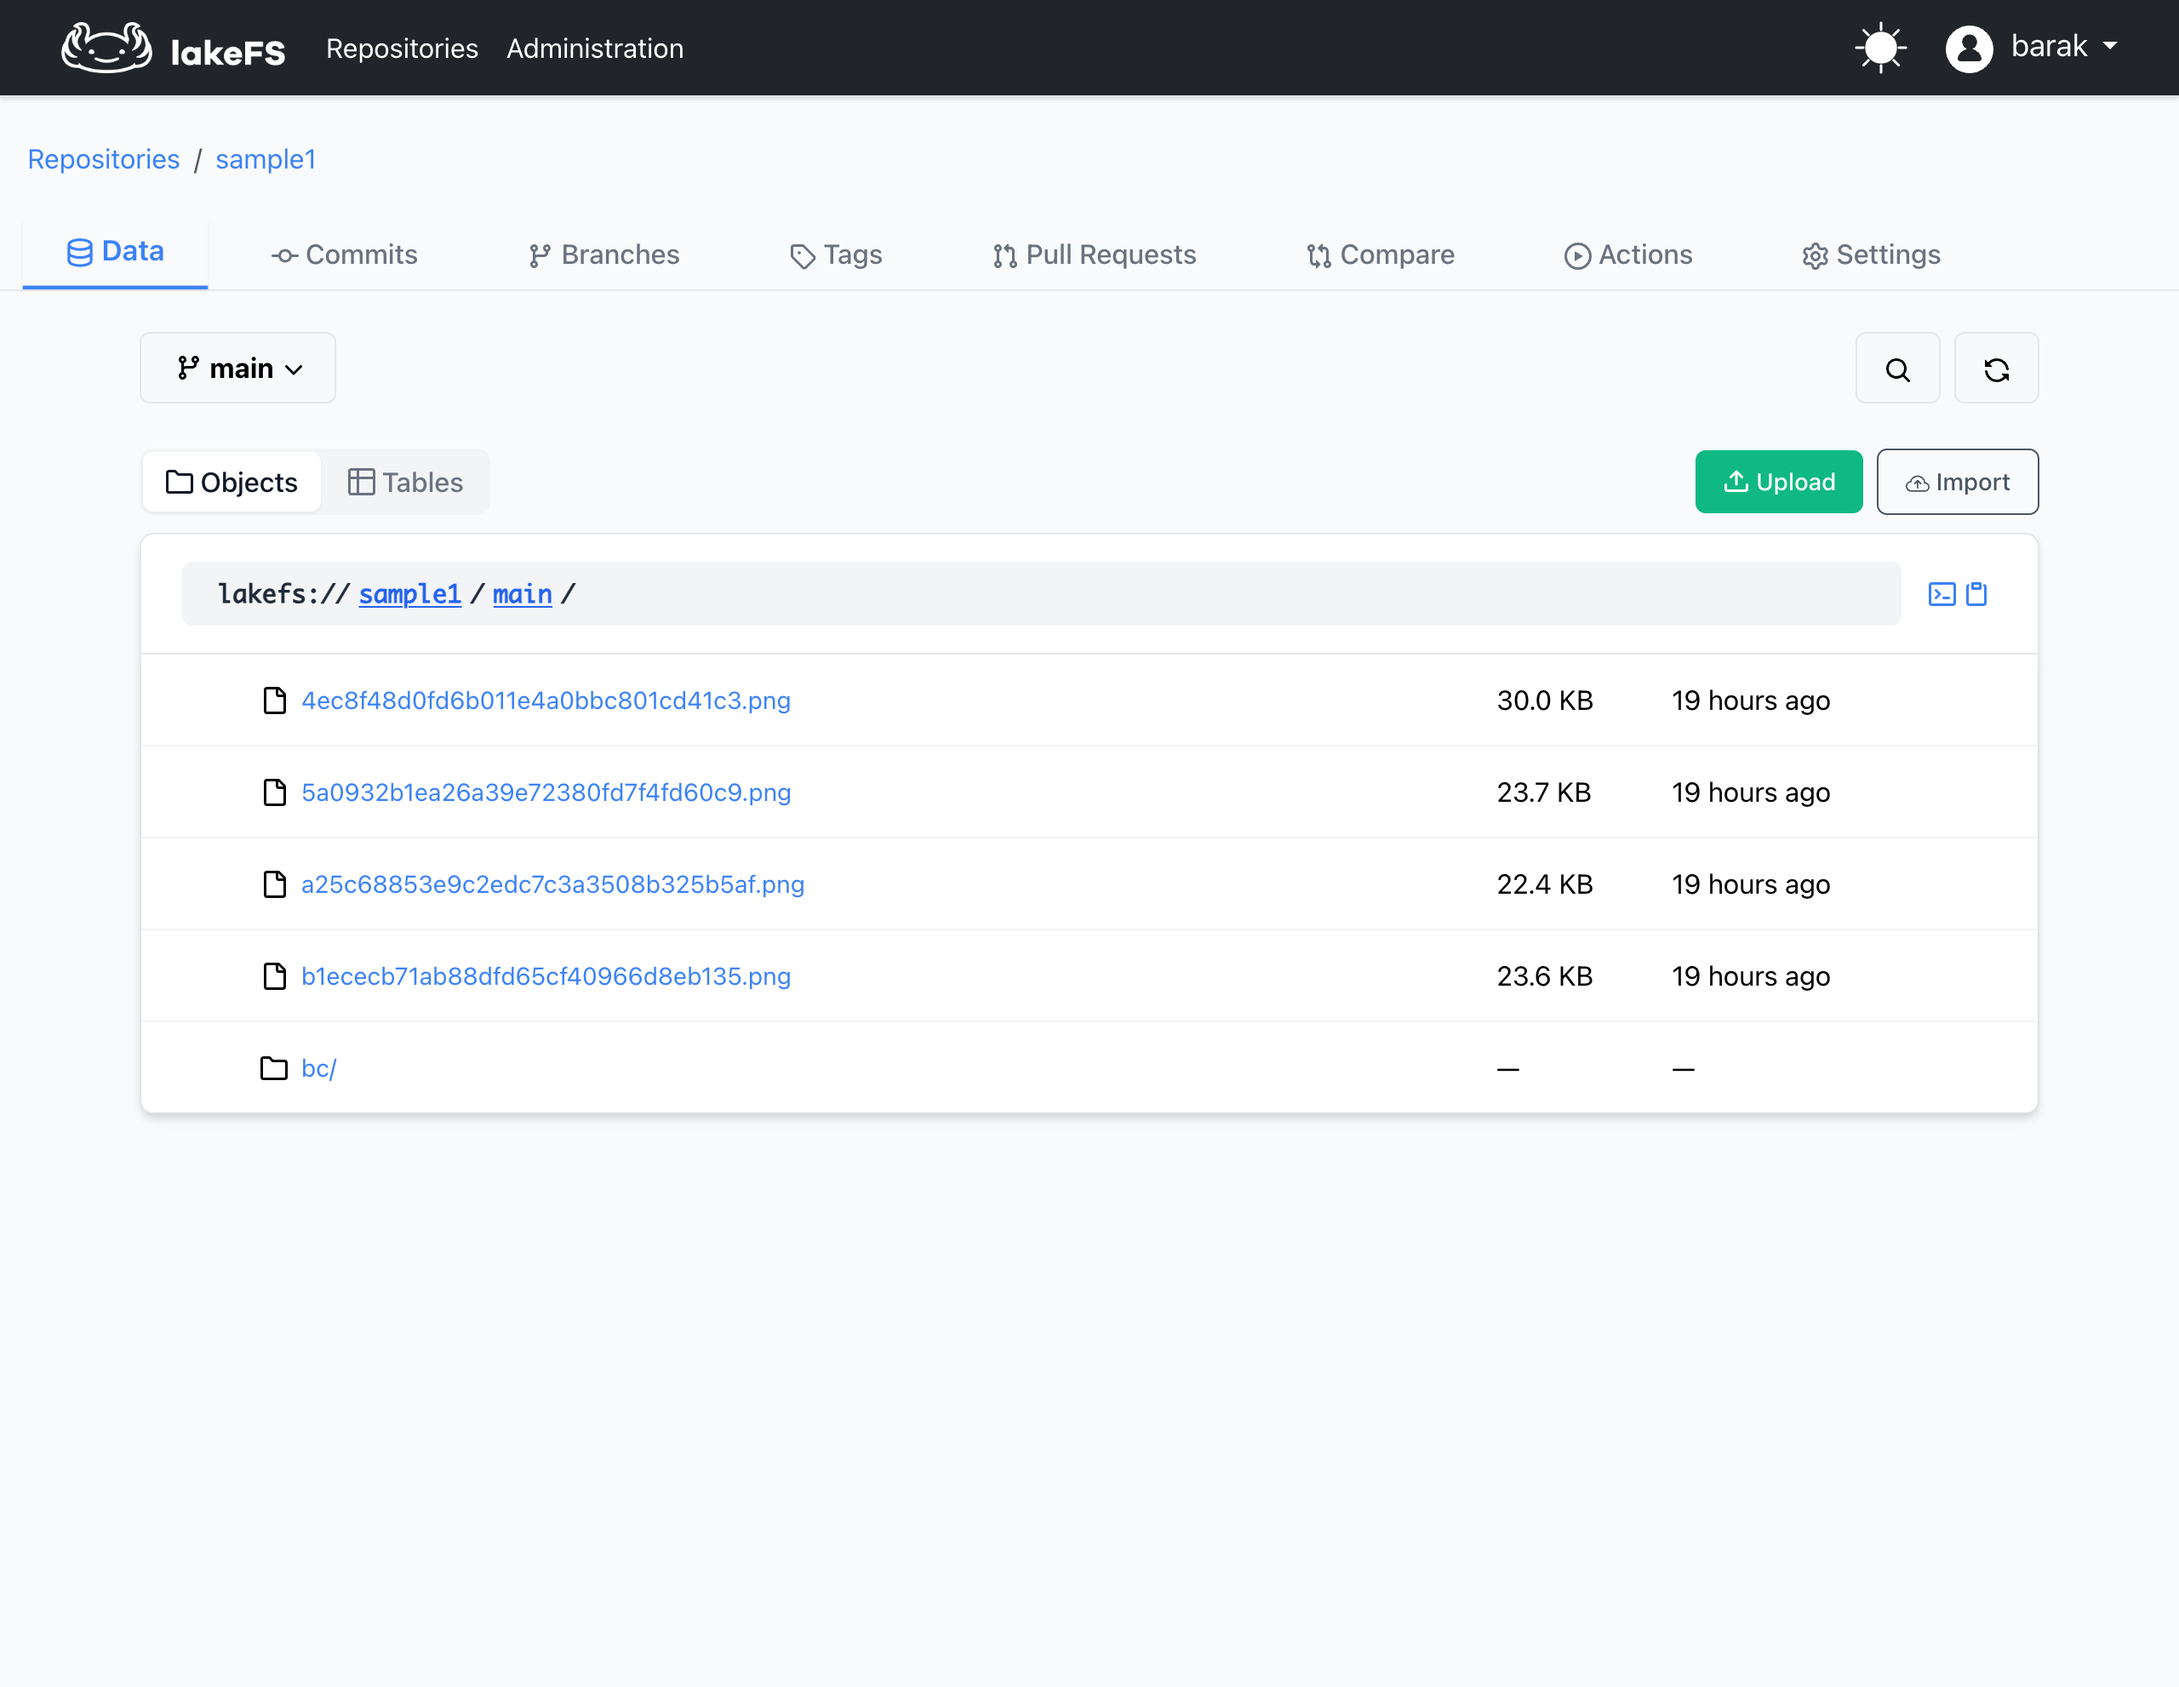
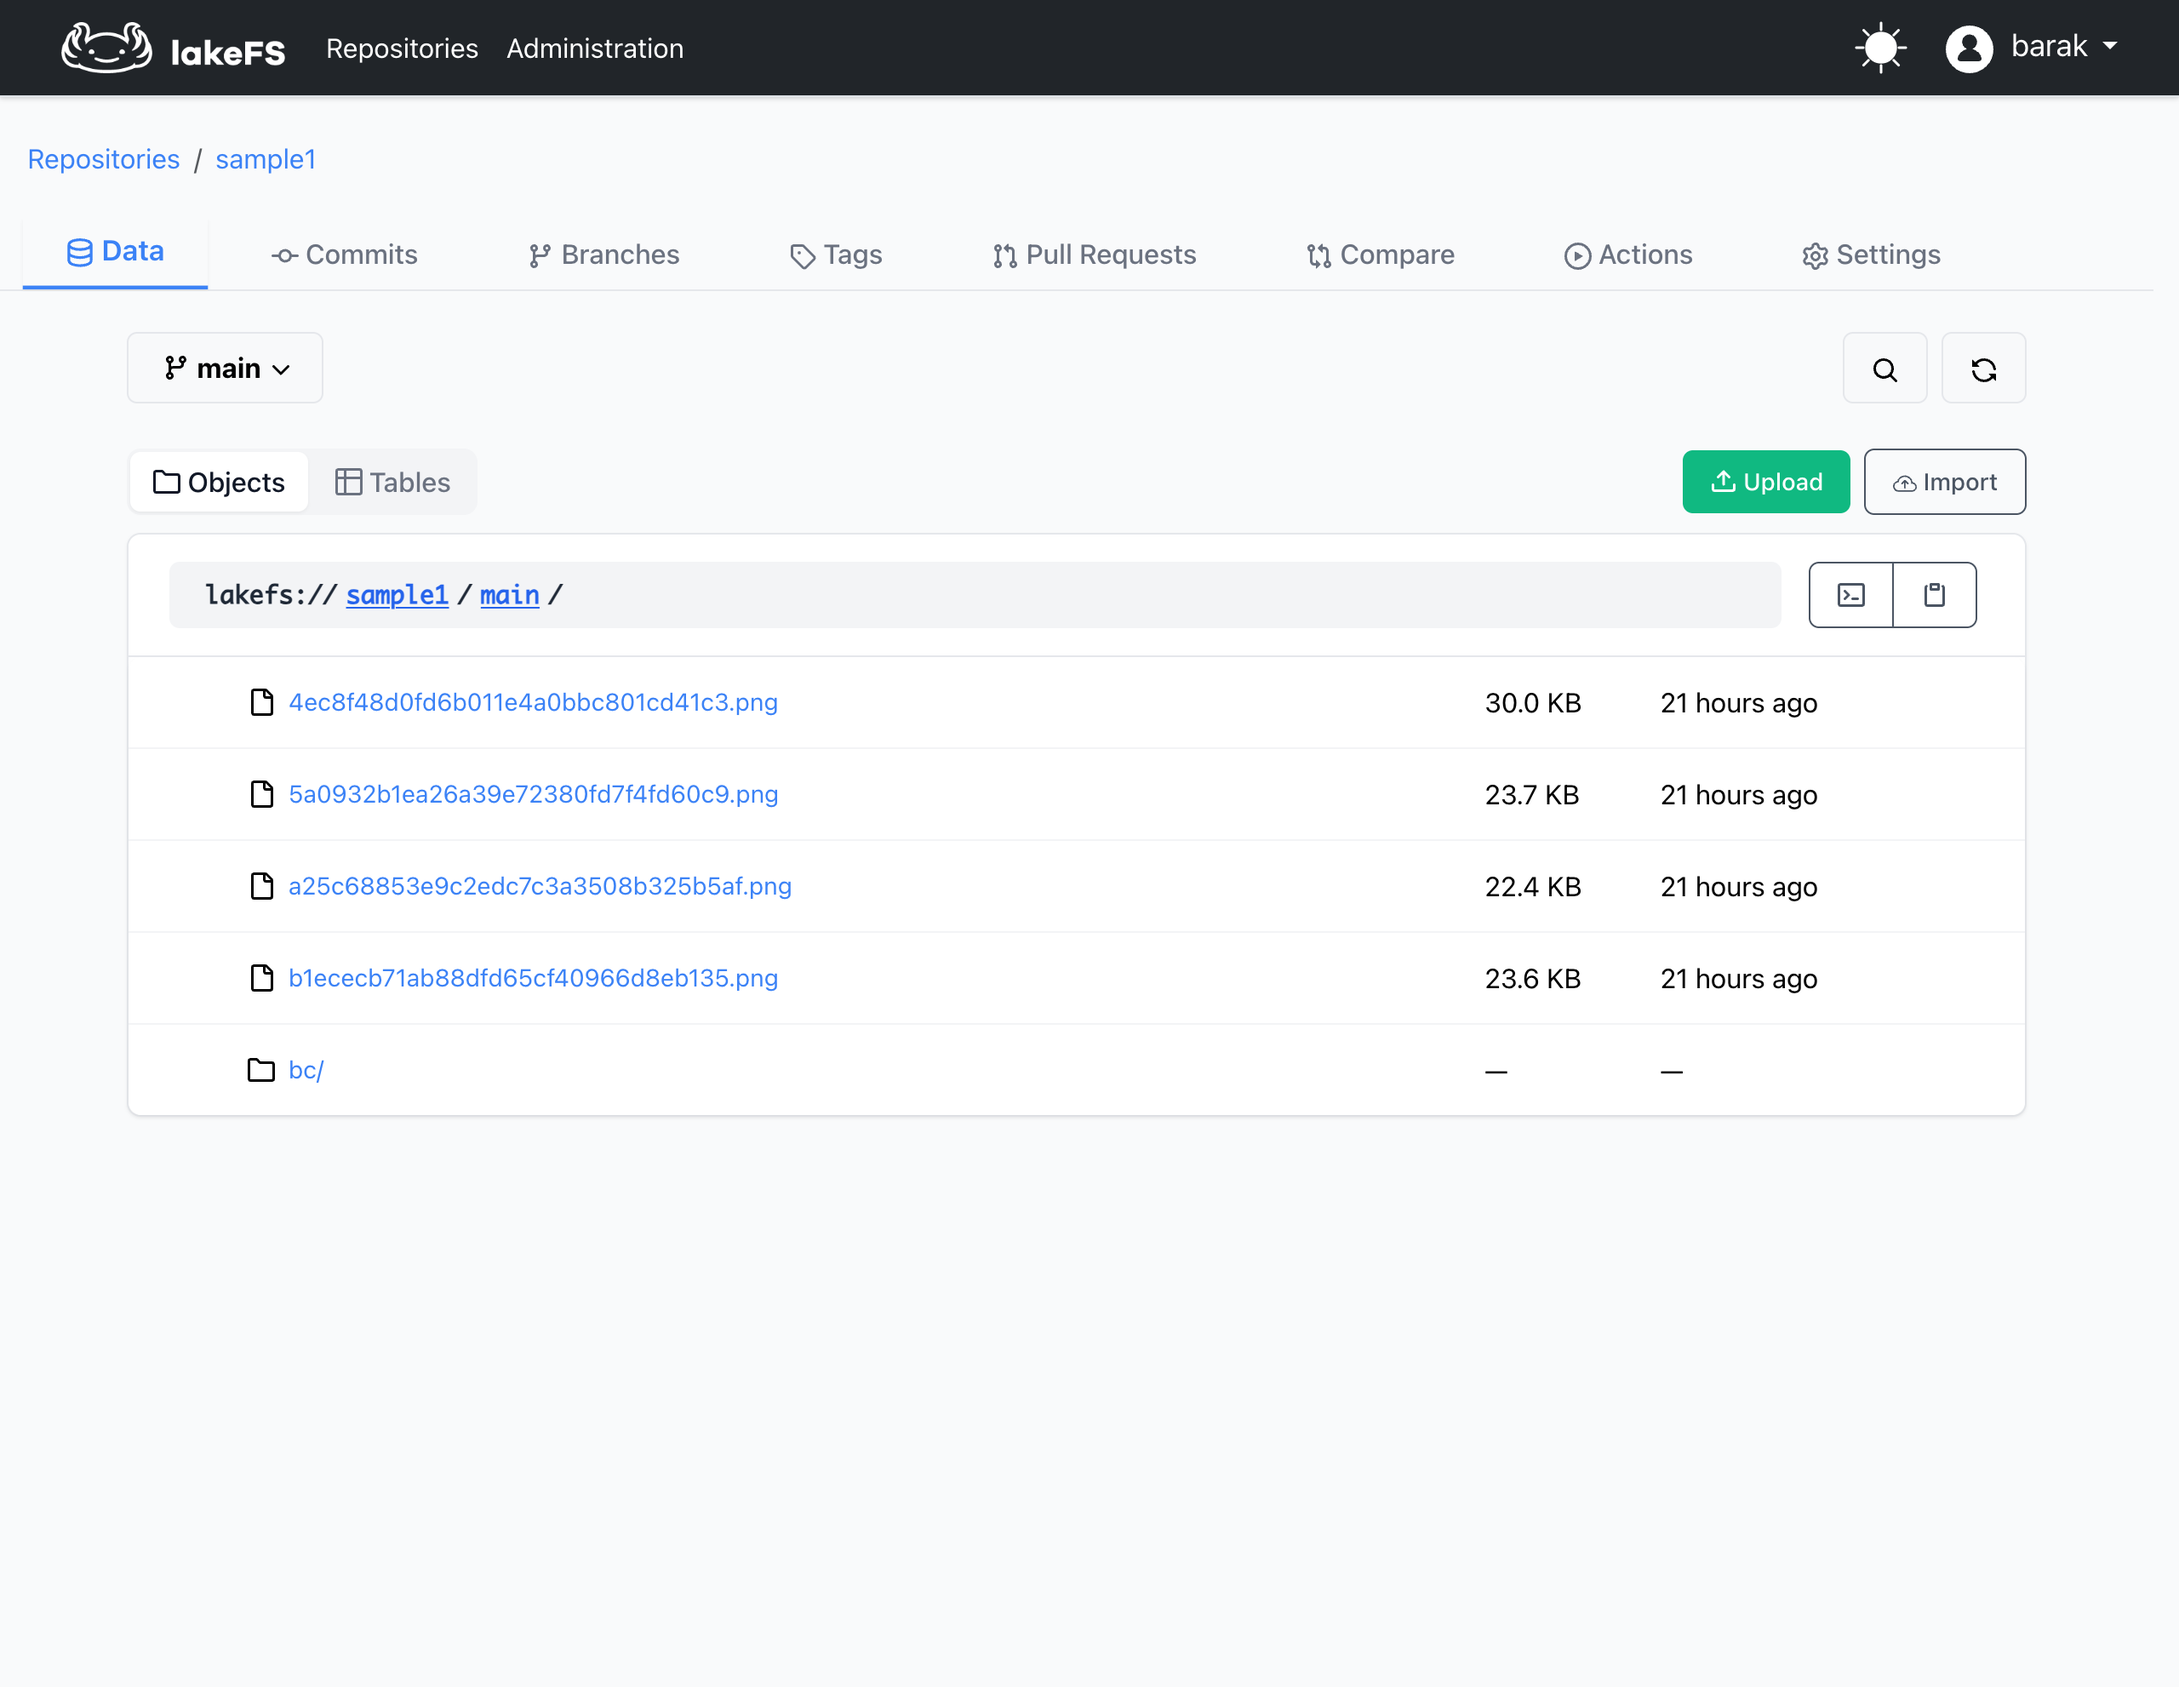
webui: extract MountModal, use ButtonGroup, fix CSS
- Extract MountModal into its own file (mountModal.jsx)
- Wrap mount and copy buttons in a Bootstrap ButtonGroup
  with outline-secondary variant
- Fix .object-viewer-buttons CSS to use direct child selector
  (> .btn) so ButtonGroup internal margins aren't overridden
- Remove unused lodash/noop import
- Update screenshots

diff --git a/webui/src/lib/components/repository/tree.jsx b/webui/src/lib/components/repository/tree.jsx
@@ -22,13 +22,12 @@ import Table from 'react-bootstrap/Table';
 import Card from 'react-bootstrap/Card';
 import OverlayTrigger from 'react-bootstrap/OverlayTrigger';
 import Button from 'react-bootstrap/Button';
+import ButtonGroup from 'react-bootstrap/ButtonGroup';
 import Container from 'react-bootstrap/Container';
 import Row from 'react-bootstrap/Row';
 import Col from 'react-bootstrap/Col';
 import Dropdown from 'react-bootstrap/Dropdown';
 import Modal from 'react-bootstrap/Modal';
-import Form from 'react-bootstrap/Form';
-import InputGroup from 'react-bootstrap/InputGroup';
 import { FaDownload } from 'react-icons/fa';
 
 import { commits, linkToPath, objects } from '../../api';
@@ -38,8 +37,8 @@ import { Link } from '../nav';
 import { RefTypeBranch, RefTypeCommit } from '../../../constants';
 import { ClipboardButton, copyTextToClipboard, AlertError, Loading, TooltipButton } from '../controls';
 import { useAPI } from '../../hooks/api';
-import noop from 'lodash/noop';
 import { CommitInfoCard } from './commits';
+import MountModal from './mountModal';
 
 export const humanSize = (bytes) => {
     if (!bytes) return '0.0 B';
@@ -459,45 +458,6 @@ const PathLink = ({ repoId, reference, path, children, presign = false, as = nul
     return React.createElement(as, { href: link, download: name }, children);
 };
 
-const MountModal = ({ show, onHide, repo, reference, path }) => {
-    const mountCommand = `everest mount lakefs://${repo.id}/${reference.id}/${path}`;
-    return (
-        <Modal show={show} onHide={onHide} size={'lg'}>
-            <Modal.Header closeButton>
-                <Modal.Title>Mount Directory</Modal.Title>
-            </Modal.Header>
-            <Modal.Body>
-                <p>
-                    Mount this path as a local directory using{' '}
-                    <a href="https://docs.lakefs.io/reference/mount.html" target="_blank" rel="noopener noreferrer">
-                        Everest
-                    </a>
-                    :
-                </p>
-                <InputGroup>
-                    <Form.Control readOnly value={mountCommand} className="font-monospace" disabled />
-                </InputGroup>
-                <p className="text-muted mt-3">
-                    Mount is only available with{' '}
-                    <a href="https://lakefs.io/enterprise/" target="_blank" rel="noopener noreferrer">
-                        lakeFS Enterprise
-                    </a>{' '}
-                    or{' '}
-                    <a href="https://lakefs.cloud/register" target="_blank" rel="noopener noreferrer">
-                        lakeFS Cloud
-                    </a>
-                    .
-                </p>
-            </Modal.Body>
-            <Modal.Footer>
-                <Button variant="secondary" onClick={onHide}>
-                    Close
-                </Button>
-            </Modal.Footer>
-        </Modal>
-    );
-};
-
 const EntryRow = ({ config, repo, reference, path, entry, onDelete, showActions }) => {
     let rowClass = 'change-entry-row ';
     switch (entry.diff_type) {
@@ -880,28 +840,28 @@ export const URINavigator = ({
                 {breadcrumbItems.length > 0 && <CollapsibleBreadcrumb items={breadcrumbItems} minVisibleItems={2} />}
             </div>
             <div className="object-viewer-buttons" style={{ flexShrink: 0 }}>
-                {hasMountButton && !isPathToFile && (
-                    <TooltipButton
-                        variant="link"
-                        size="sm"
-                        tooltip="Mount directory"
-                        className="me-1"
-                        onClick={() => setShowMountModal(true)}
-                    >
-                        <TerminalIcon />
-                    </TooltipButton>
-                )}
-                {hasCopyButton && (
-                    <ClipboardButton
-                        text={`lakefs://${repo.id}/${reference.id}/${path}`}
-                        variant="link"
-                        size="sm"
-                        onSuccess={noop}
-                        onError={noop}
-                        className={'me-1'}
-                        tooltip={'copy URI to clipboard'}
-                    />
-                )}
+                <ButtonGroup size="sm" className="me-1">
+                    {hasMountButton && !isPathToFile && (
+                        <TooltipButton
+                            variant="outline-secondary"
+                            size="sm"
+                            tooltip="Mount directory"
+                            onClick={() => setShowMountModal(true)}
+                        >
+                            <TerminalIcon />
+                        </TooltipButton>
+                    )}
+                    {hasCopyButton && (
+                        <ClipboardButton
+                            text={`lakefs://${repo.id}/${reference.id}/${path}`}
+                            variant="outline-secondary"
+                            size="sm"
+                            onSuccess={() => {}}
+                            onError={() => {}}
+                            tooltip={'copy URI to clipboard'}
+                        />
+                    )}
+                </ButtonGroup>
                 {downloadUrl && (
                     <a
                         href={downloadUrl}

diff --git a/webui/src/lib/components/repository/mountModal.jsx b/webui/src/lib/components/repository/mountModal.jsx
@@ -1,0 +1,46 @@
+import React from 'react';
+import Modal from 'react-bootstrap/Modal';
+import Form from 'react-bootstrap/Form';
+import InputGroup from 'react-bootstrap/InputGroup';
+import Button from 'react-bootstrap/Button';
+
+const MountModal = ({ show, onHide, repo, reference, path }) => {
+    const mountCommand = `everest mount lakefs://${repo.id}/${reference.id}/${path}`;
+    return (
+        <Modal show={show} onHide={onHide} size={'lg'}>
+            <Modal.Header closeButton>
+                <Modal.Title>Mount Directory</Modal.Title>
+            </Modal.Header>
+            <Modal.Body>
+                <p>
+                    Mount this path as a local directory using{' '}
+                    <a href="https://docs.lakefs.io/reference/mount.html" target="_blank" rel="noopener noreferrer">
+                        Everest
+                    </a>
+                    :
+                </p>
+                <InputGroup>
+                    <Form.Control readOnly value={mountCommand} className="font-monospace" disabled />
+                </InputGroup>
+                <p className="text-muted mt-3">
+                    Mount is only available with{' '}
+                    <a href="https://lakefs.io/enterprise/" target="_blank" rel="noopener noreferrer">
+                        lakeFS Enterprise
+                    </a>{' '}
+                    or{' '}
+                    <a href="https://lakefs.cloud/register" target="_blank" rel="noopener noreferrer">
+                        lakeFS Cloud
+                    </a>
+                    .
+                </p>
+            </Modal.Body>
+            <Modal.Footer>
+                <Button variant="secondary" onClick={onHide}>
+                    Close
+                </Button>
+            </Modal.Footer>
+        </Modal>
+    );
+};
+
+export default MountModal;

diff --git a/webui/src/styles/objects/objects.css b/webui/src/styles/objects/objects.css
@@ -201,11 +201,11 @@ tr:hover .row-hover .btn-outline-danger {
     align-items: center;
 }
 
-.object-viewer-buttons .btn {
+.object-viewer-buttons > .btn {
     margin-right: var(--spacing-md);
 }
 
-.object-viewer-buttons .btn:last-child {
+.object-viewer-buttons > .btn:last-child {
     margin-right: 0;
 }
 

diff --git a/webui/src/styles/objects/object-viewer.css b/webui/src/styles/objects/object-viewer.css
@@ -4,11 +4,11 @@
     align-items: center;
 }
 
-.object-viewer-buttons .btn {
+.object-viewer-buttons > .btn {
     margin-right: var(--spacing-md);
 }
 
-.object-viewer-buttons .btn:last-child {
+.object-viewer-buttons > .btn:last-child {
     margin-right: 0;
 }
 
